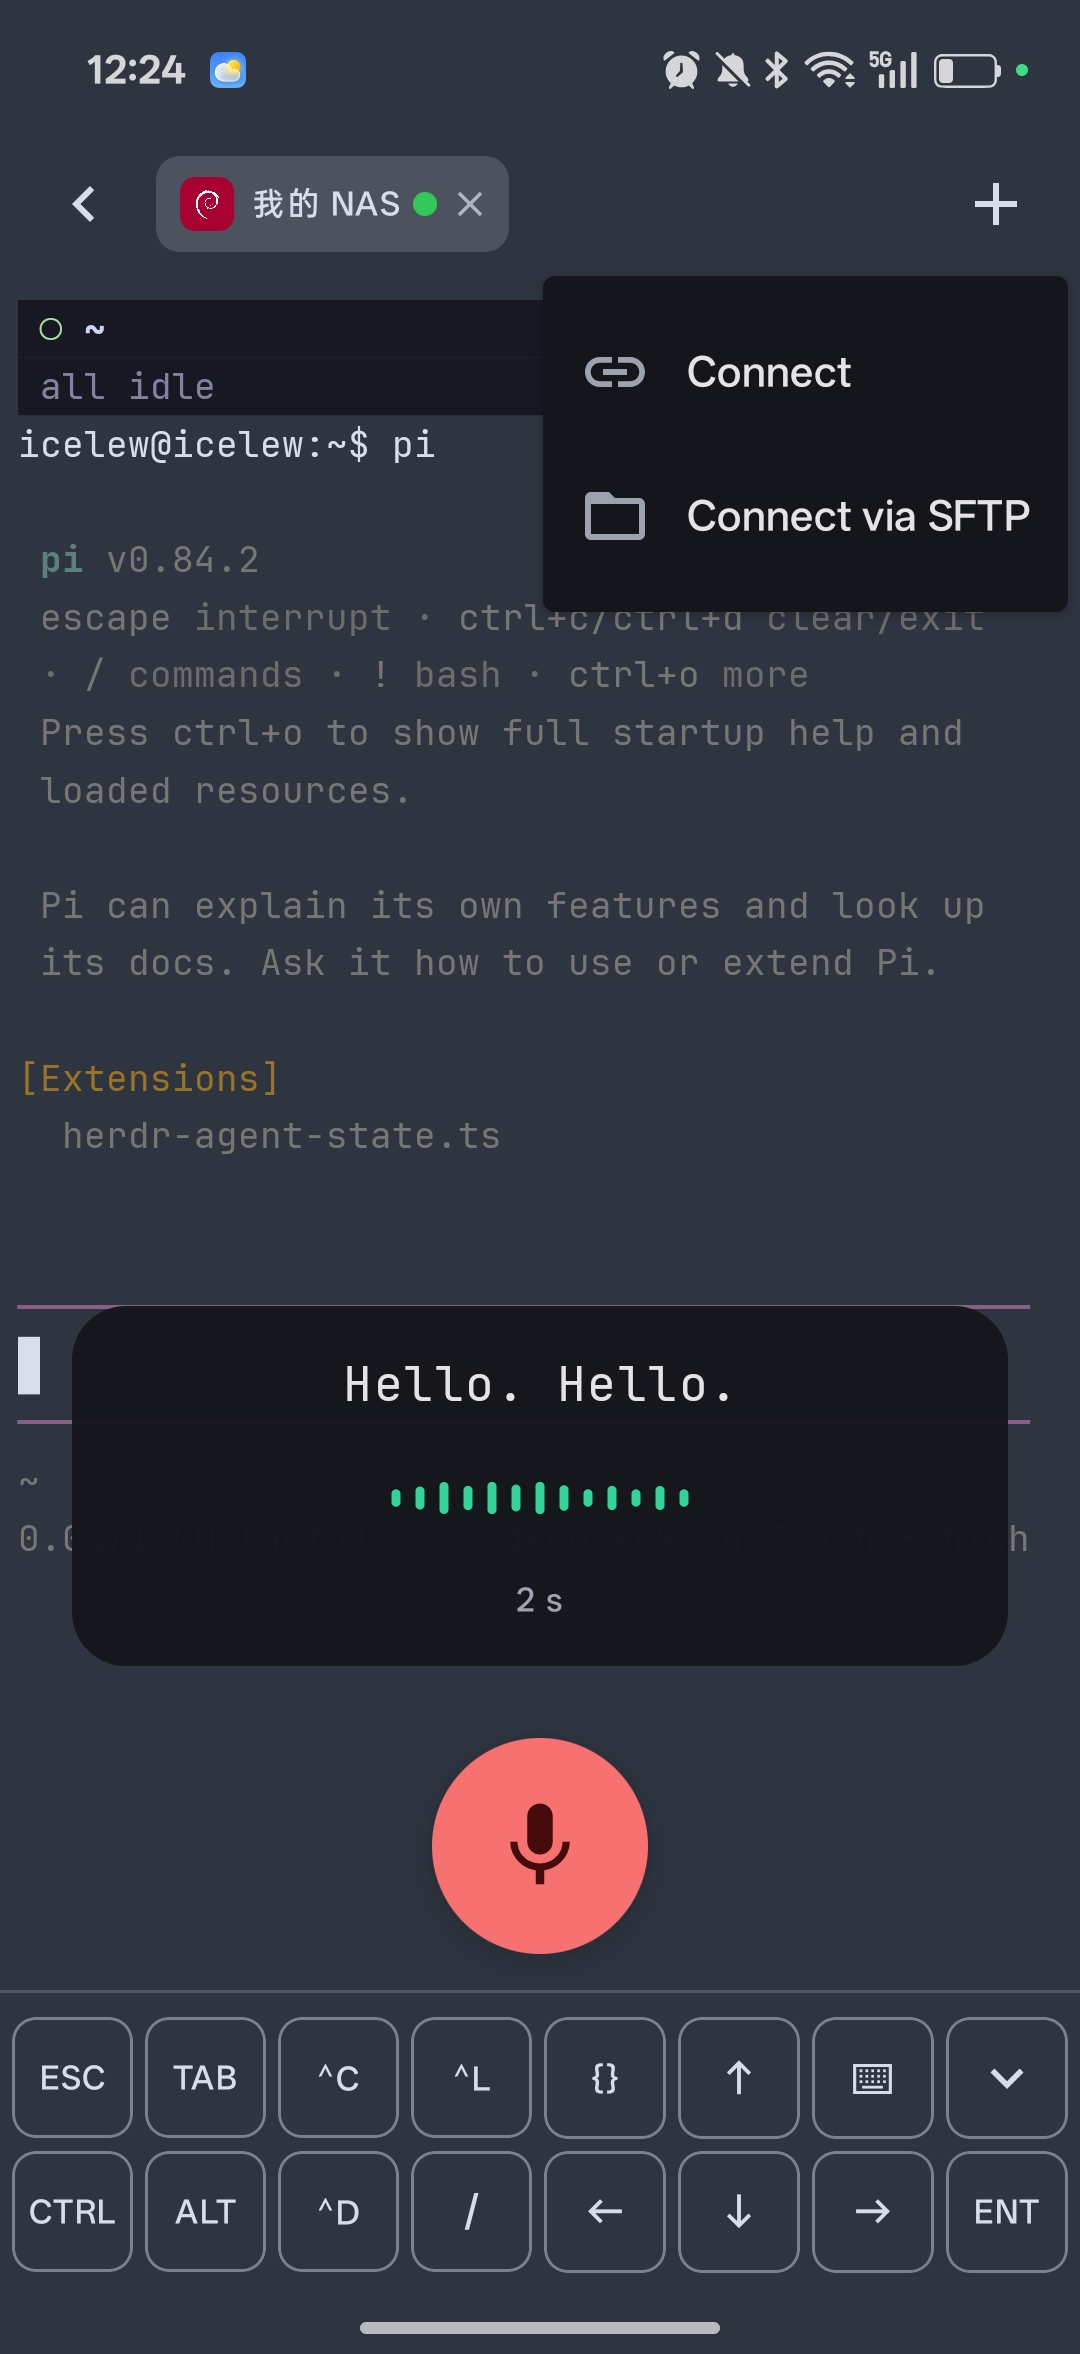
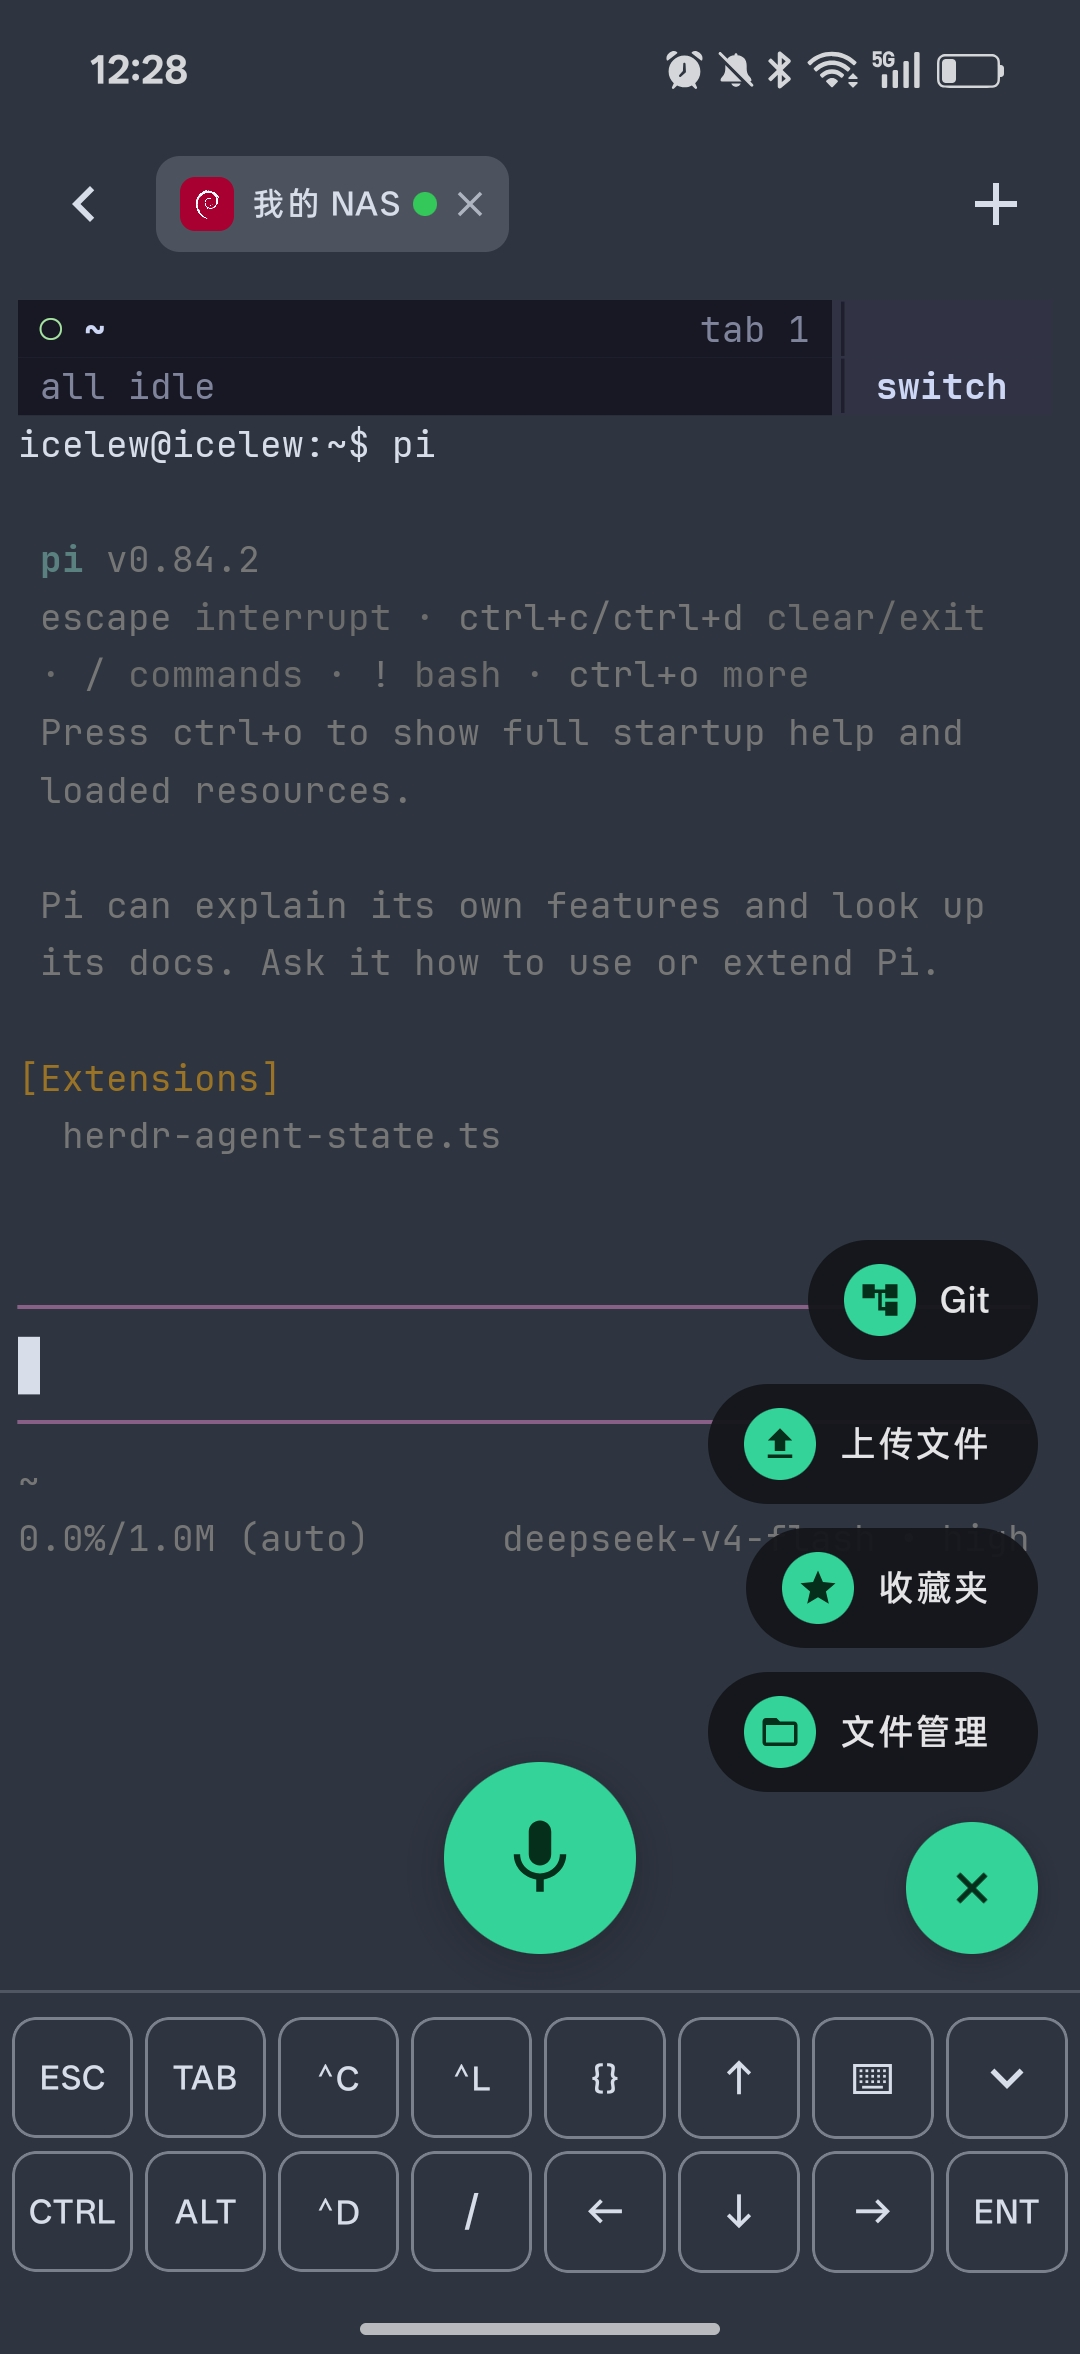
docs: 删除 terminal-herdr 截图，第4张确定为 terminal-menu
- 删除 terminal-herdr-zh/en.png（老照片，不再展示）
- README 第 4、5 张 = terminal-menu-zh / terminal-menu-en（中英文）

diff --git a/README.md b/README.md
@@ -18,8 +18,8 @@
   <img src="docs/screenshots/theme-en.png" width="230" alt="Terminal theme" />
 </p>
 <p>
-  <img src="docs/screenshots/terminal-herdr-en.png" width="230" alt="herdr TUI agent" />
   <img src="docs/screenshots/terminal-menu-en.png" width="230" alt="Terminal tools menu" />
+  <img src="docs/screenshots/terminal-menu-zh.png" width="230" alt="Terminal tools menu" />
   <img src="docs/screenshots/sftp-en.png" width="230" alt="SFTP" />
 </p>
 <p>

diff --git a/README.zh-CN.md b/README.zh-CN.md
@@ -18,8 +18,8 @@
   <img src="docs/screenshots/theme-zh.png" width="230" alt="终端主题" />
 </p>
 <p>
-  <img src="docs/screenshots/terminal-herdr-zh.png" width="230" alt="终端工具菜单" />
   <img src="docs/screenshots/terminal-menu-zh.png" width="230" alt="终端工具菜单" />
+  <img src="docs/screenshots/terminal-menu-en.png" width="230" alt="终端工具菜单" />
   <img src="docs/screenshots/sftp-zh.png" width="230" alt="SFTP" />
 </p>
 <p>
